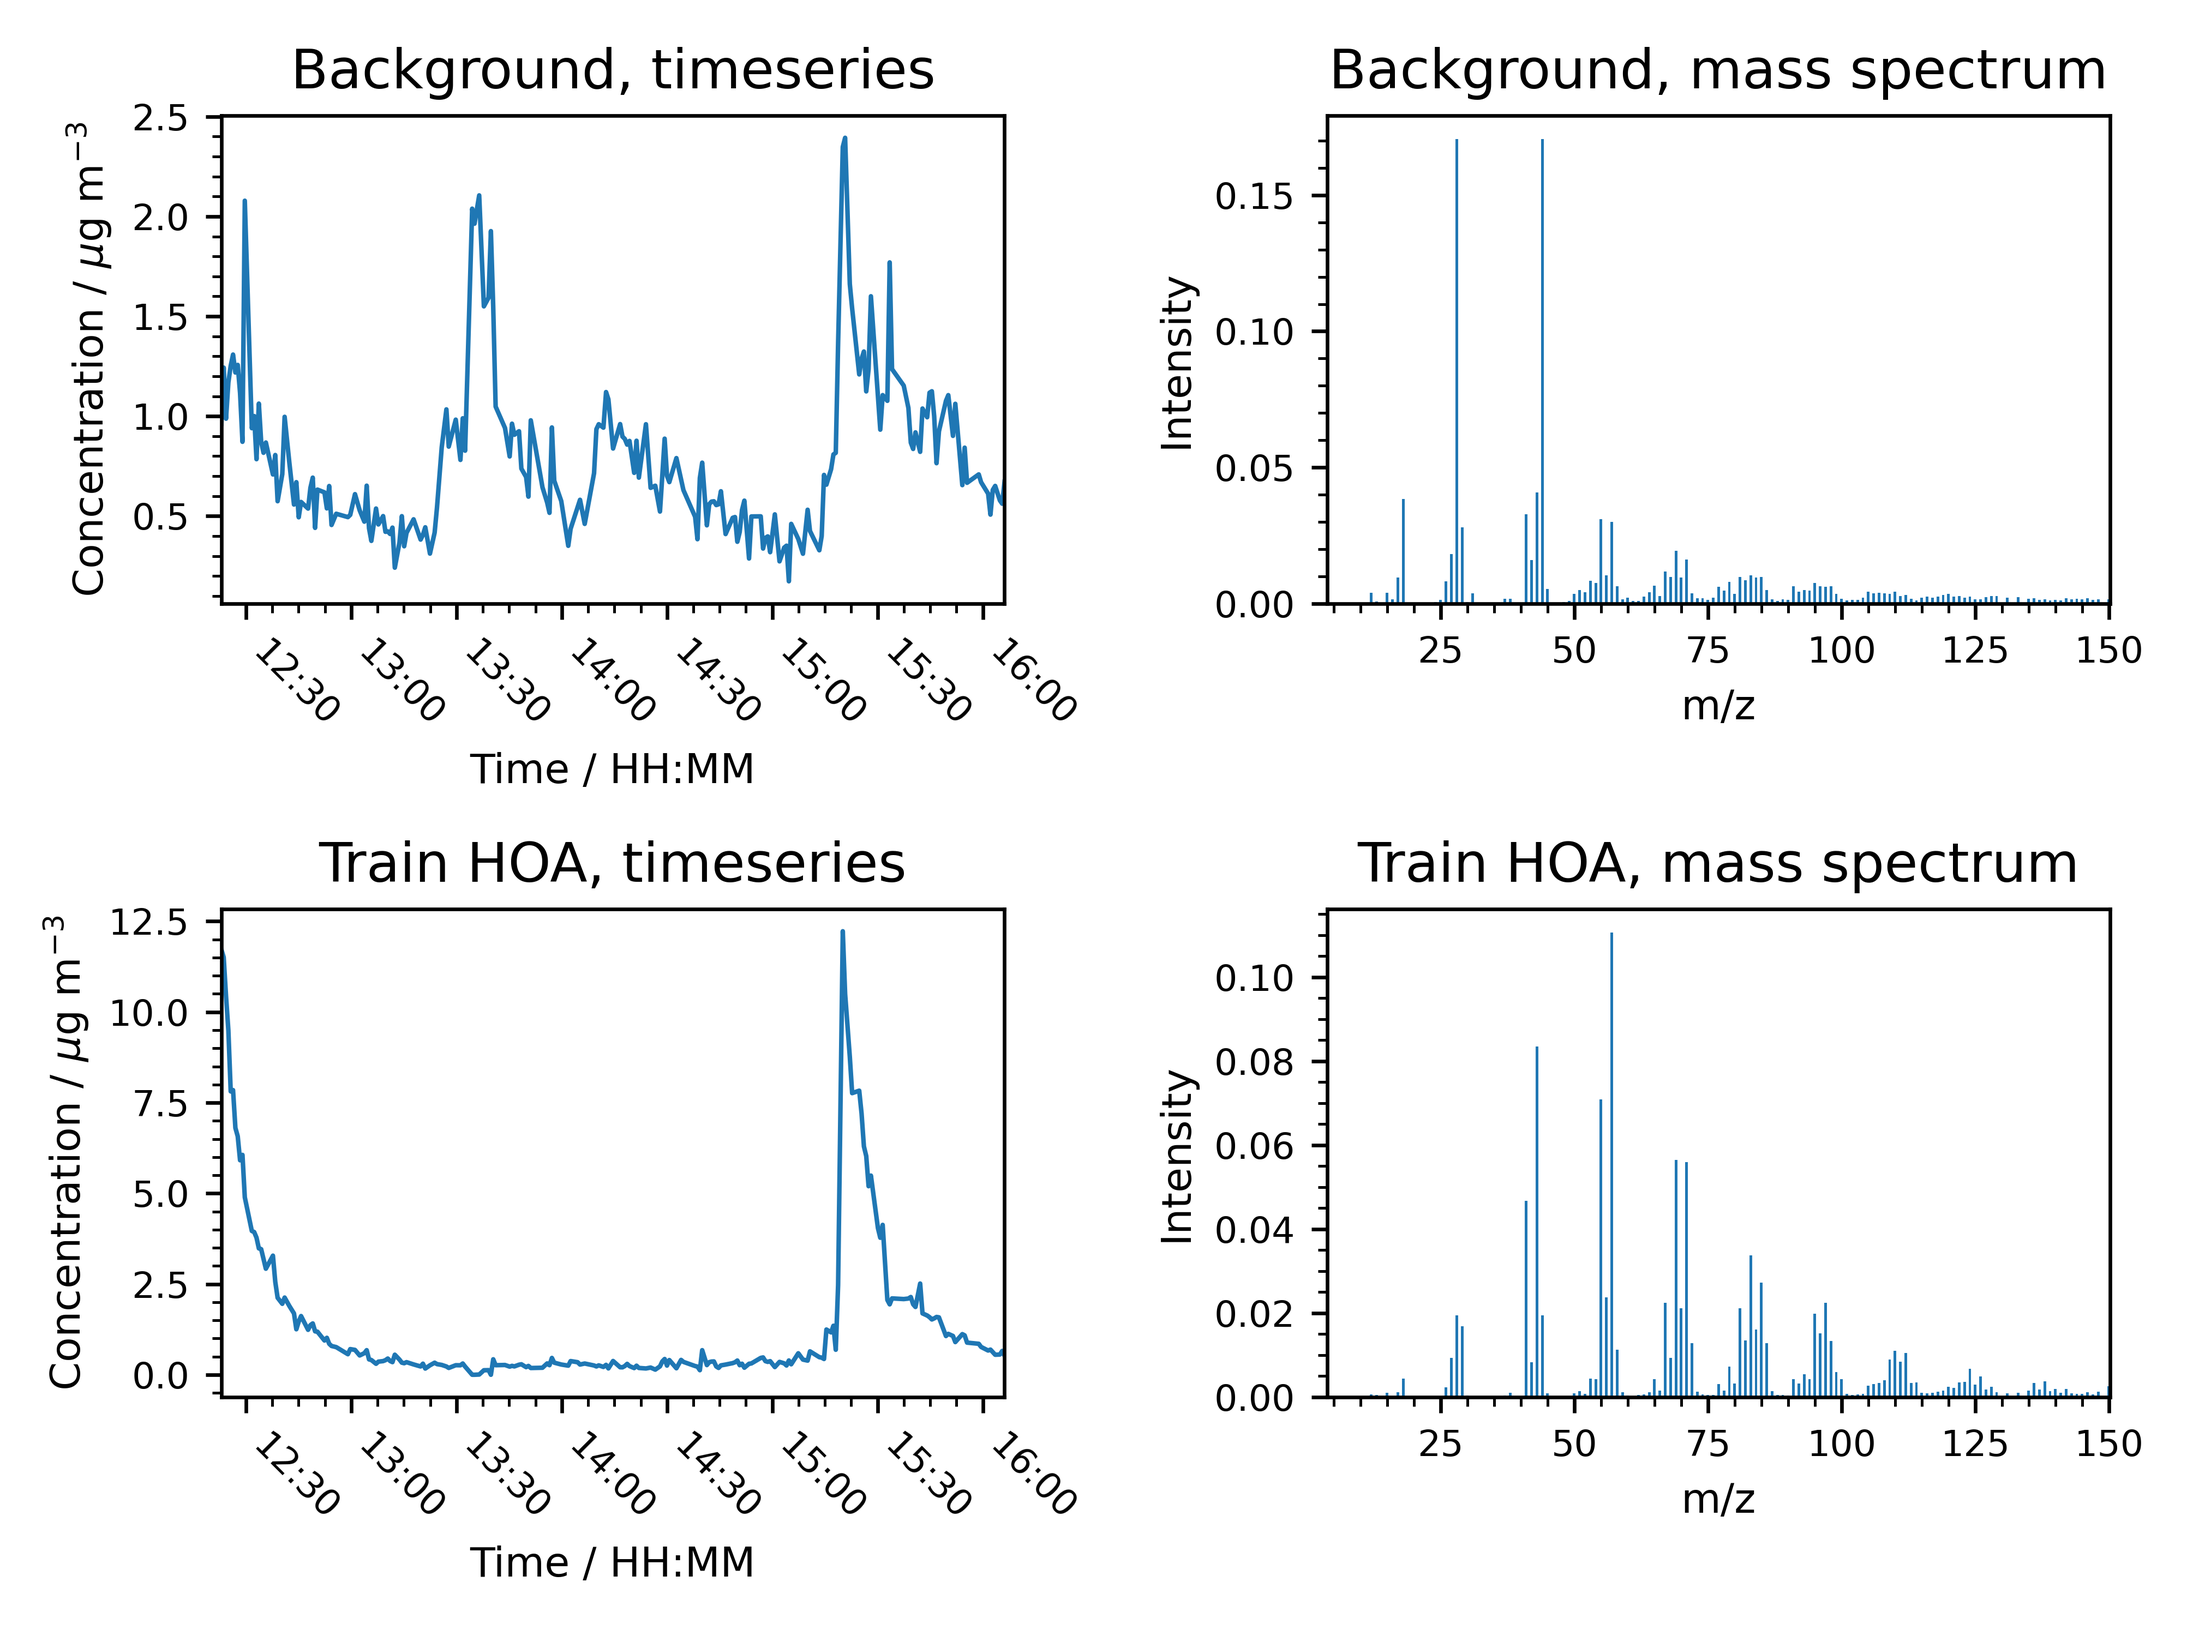
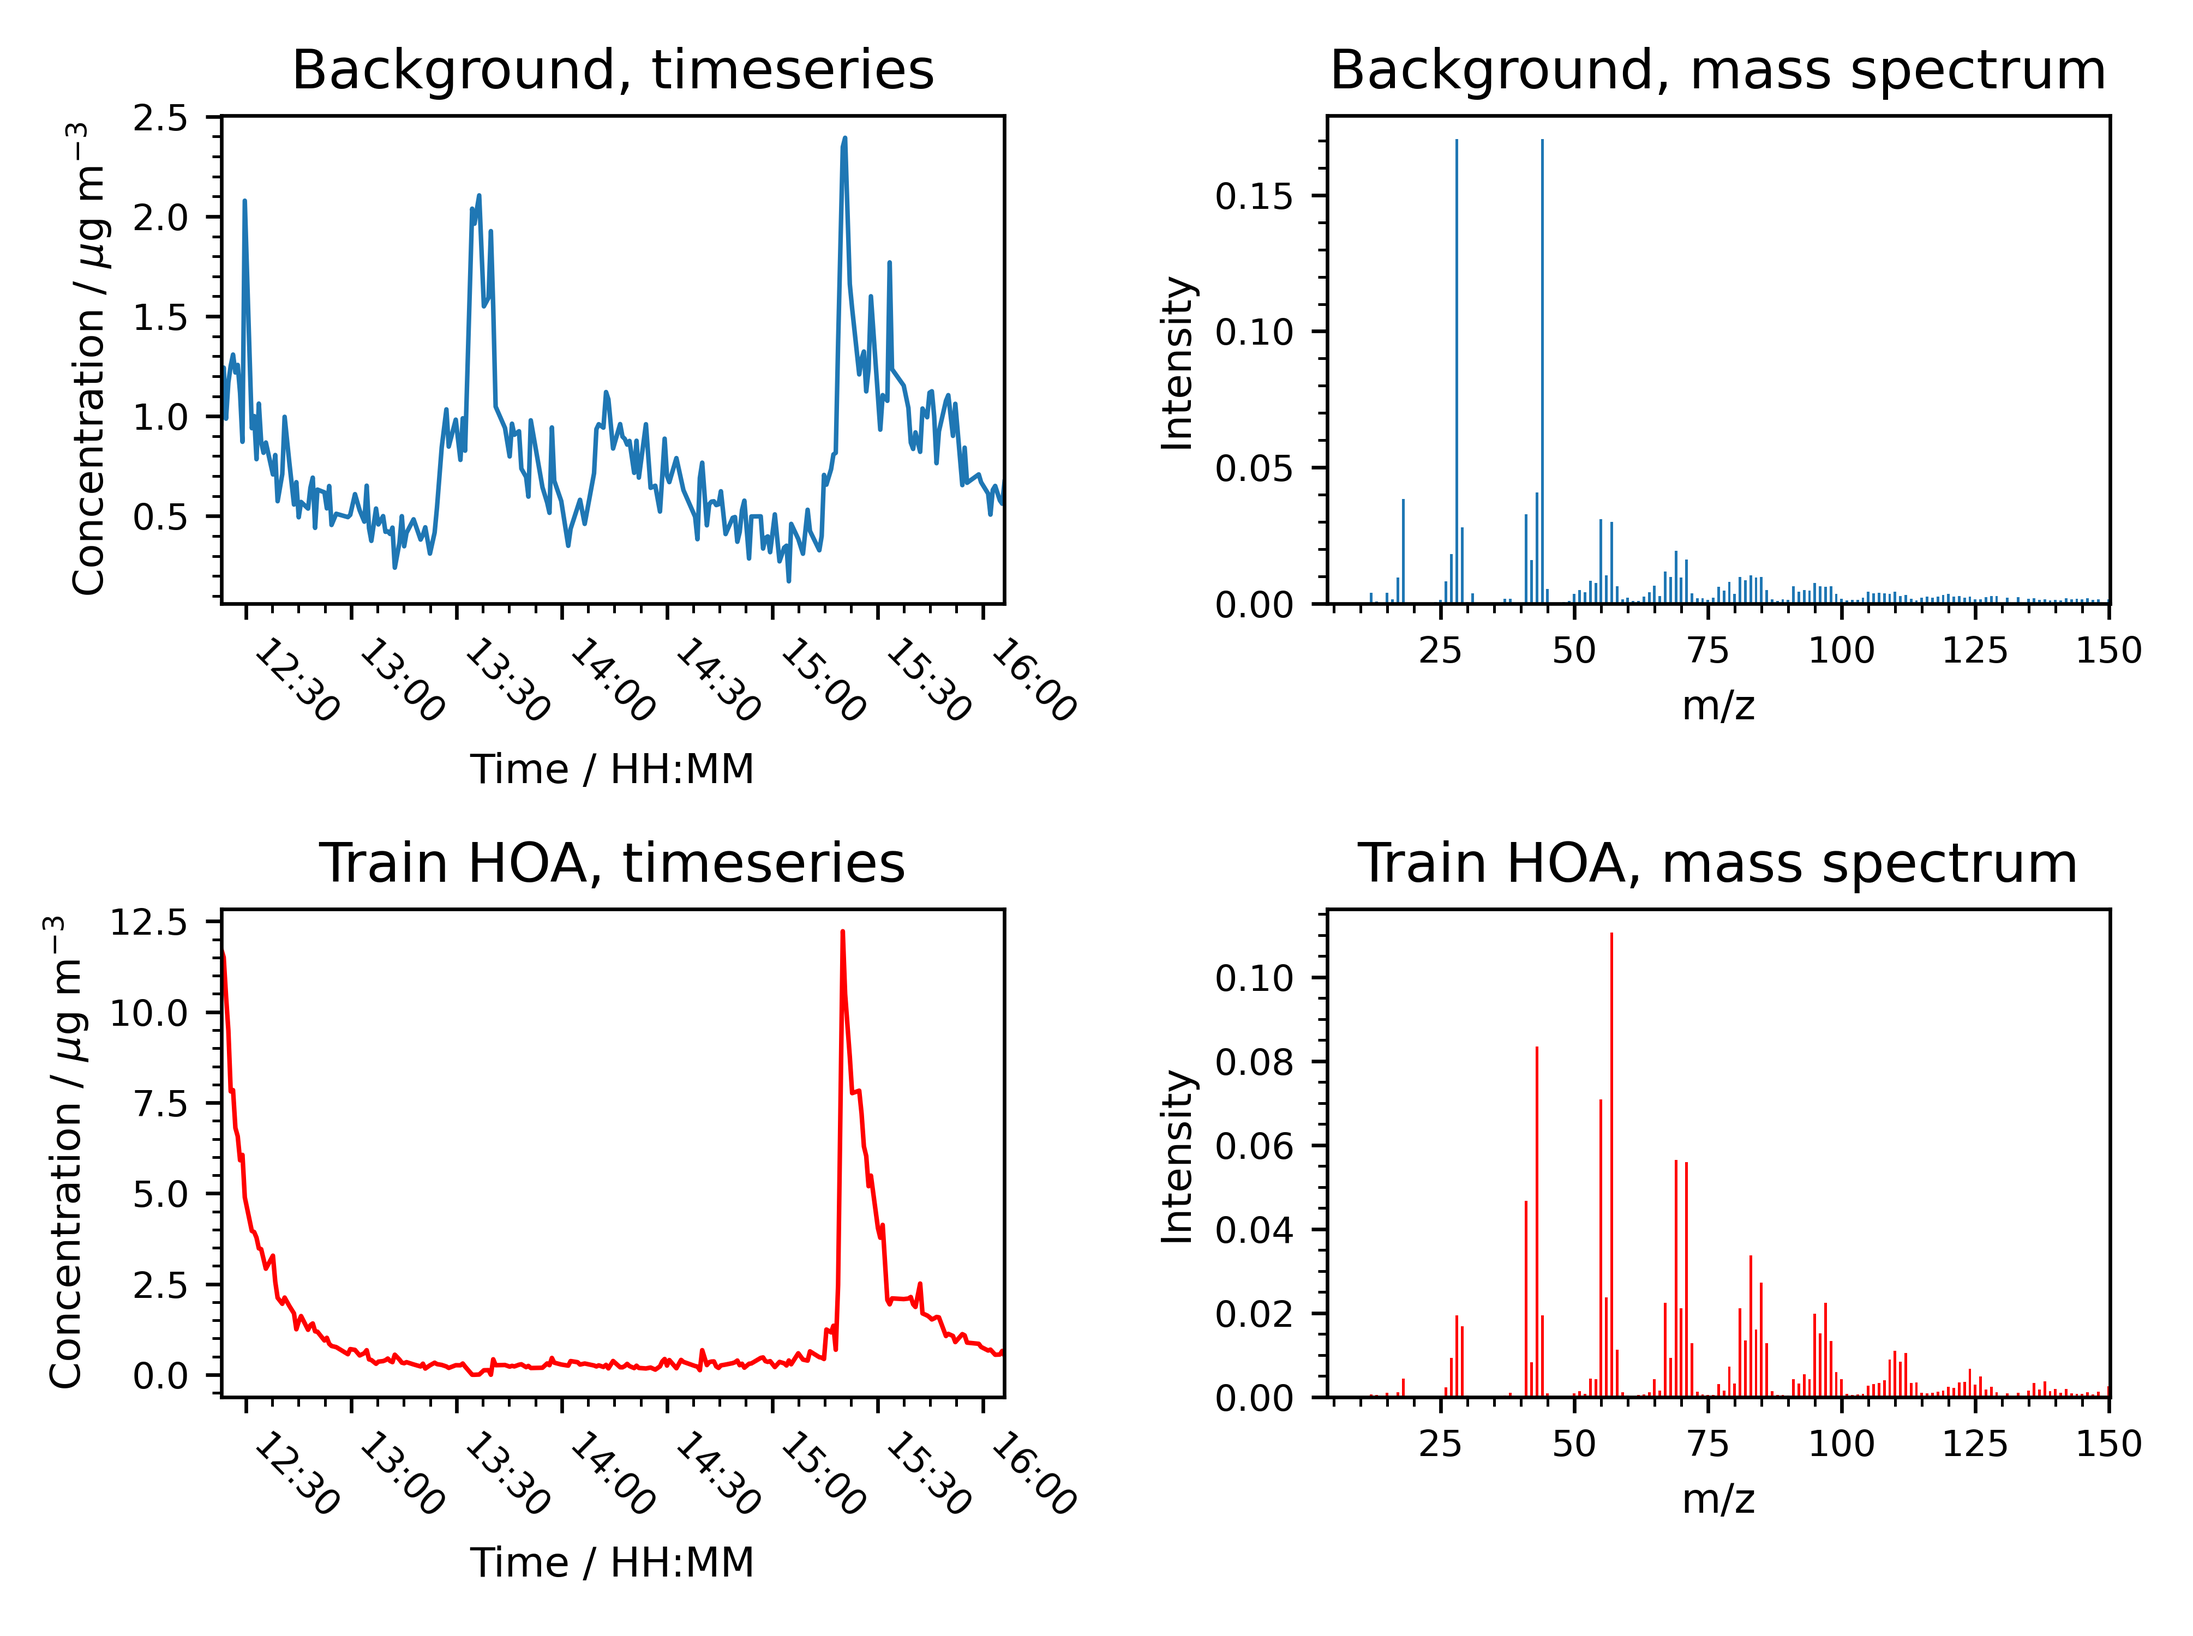
Update

diff --git a/plot_functions.py b/plot_functions.py
@@ -53,8 +53,8 @@ def plot_inset(ax, height, loc, bb2a, plot_width, xdata, ydata, width, bar, time
 
     return artist, inset_ax
     
-def plot_MS(ax, df, conc, width, ttl):
-    ax.bar(df['m/z'], df[conc], width)
+def plot_MS(ax, df, conc, width, ttl, color):
+    ax.bar(df['m/z'], df[conc], width, color = color)
 
     ax.set(xlabel = 'm/z', ylabel = 'Intensity', title = ttl)
 
@@ -64,7 +64,7 @@ def plot_MS_wInset(ax, data_dict, dict_keys, conc, height, loc, bb2a, widths, ti
         zero_mask = df[conc] >= 0
         df = df[zero_mask]
 
-        plot_MS(ax[i], df, conc, widths[0], titles[i])
+        plot_MS(ax[i], df, conc, widths[0], titles[i], 'tab:blue')
         
         ax[i].set_xlim(0, 300)
 
